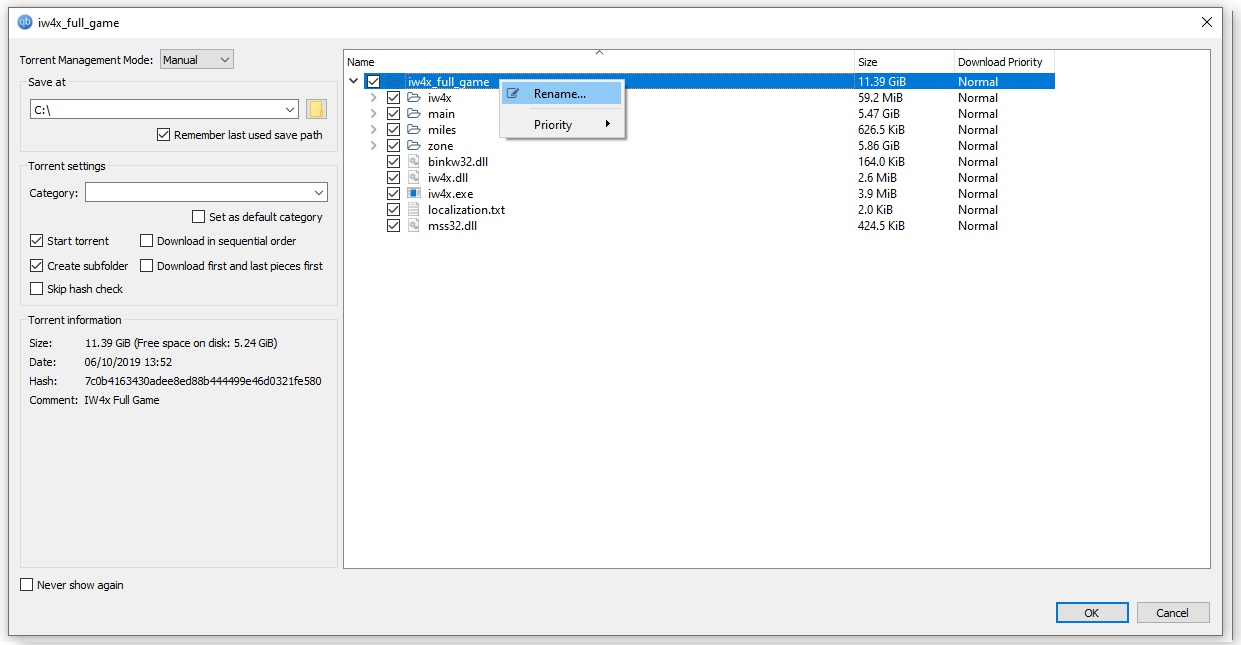
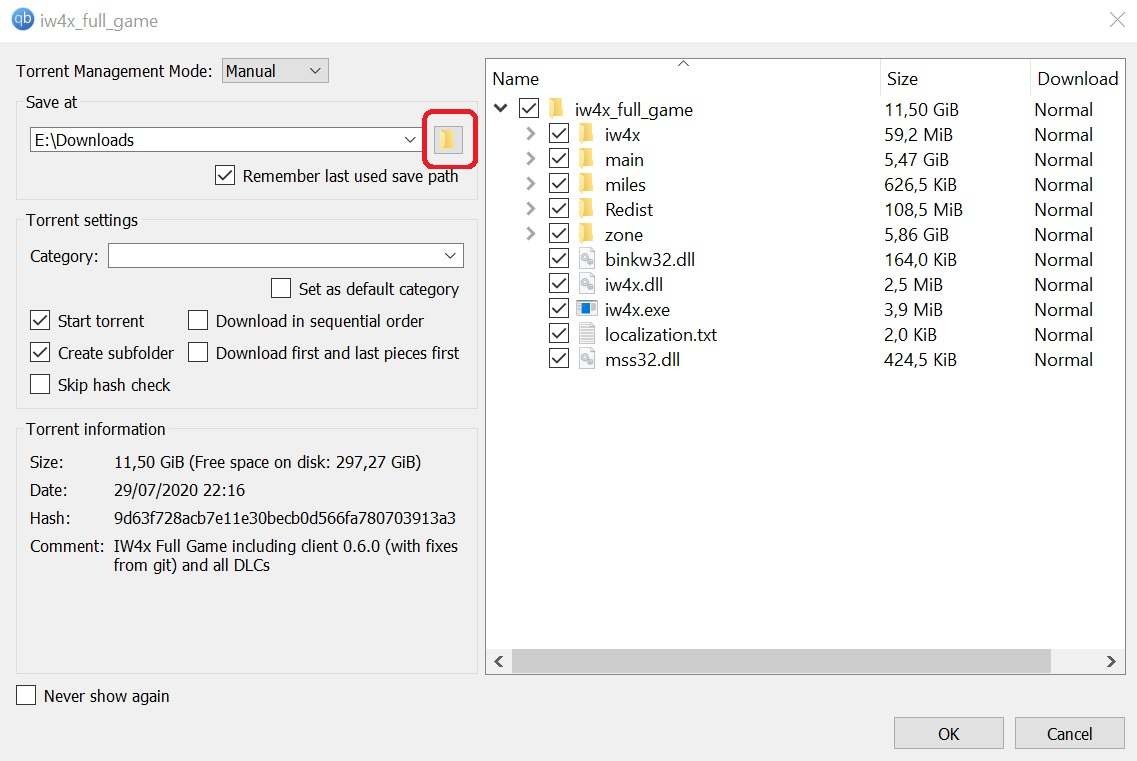
Simplified the Repair Guide and added a Guide on identifying Lag

Changed region(s): [[0.0, 0.0, 1.0, 1.0], [0.0, 0.8992, 0.1539, 0.9302]]

diff --git a/lagGuide.html b/lagGuide.html
@@ -10,10 +10,10 @@
 			gtag('js', new Date());
 			gtag('config', 'UA-154878289-1');
 		</script>
-		<title>IW4x Guides</title>
+		<title>Lag Guide</title>
 		<meta http-equiv="content-type" content="text/html; charset=utf-8" />
-		<meta name="description" content="All iw4x guides, all in one place."/>
-		<meta name="keywords" content="iw4x, iw4x guides, guides iw4x, MW2 guides, private match guide, controller guide, iw4x unlock all guide, iw4x console commands" />
+		<meta name="description" content="Find out what causes lag and what you can do to fight it."/>
+		<meta name="keywords" content="IW4x, lag, low fps, high ping, Mw2 iw4x, servers"/>
 		<meta name="theme-color" content="#317EFB"/>
 		<meta property="og:image" content="iw4xSplashAlt2.jpg">
 		<link rel="manifest" href="manifest.json">
@@ -62,32 +62,58 @@
 		<!-- Banner -->
 		<section id="bannerSkinny">
 			<div class="inner">
-				<h2 data-langkey="guides-Banner">Guides</h2>
+				<h2>Lag Guide</h2>
+				<p>Some players may experience lag but are unsure where it comes from and what they can do to fight it, this guide is going to cover the basic troubleshooting steps to enable a lag-free experience</p>
+				<a href="guides.html" class="button">Return to Guide list</a>
 			</div>
 		</section>
 
 		<!-- one -->
-		<section id="main" class="wrapper style1">
-			<header class="major">
-				<h2 data-langkey="guides-Contents">Contents:</h2>
-			</header>
-			<div class="container">
-				<ul>
-					<li><a data-langkey="guides-PrivateMatch" href="privateMatchGuide.html">Hosting a private match with friends</a></li>
-					<li><a data-langkey="guides-PublicServer" href="publicServerGuide.html">Hosting a public server</a></li>
-					<li><a href="OfflineServerGuide.html">Hosting a offline LAN server</a></li>
-					<li><a data-langkey="guides-UnlockAll" href="unlockAllGuide.html">How to unlock all / set a custom rank</a></li>
-					<li><a data-langkey="guides-Controller" href="controllerGuide.html">Using a controller on IW4x</a></li>
-					<li><a data-langkey="guides-Customise" href="customisationGuide.html">How to customise your game (Camos/Skins/Menus/Music)</a></li>
-					<li><a data-langkey="guides-Mods" href="modGuide.html">Installing / using mods</a></li>
-					<li><a data-langkey="guides-Binds" href="bindsGuide.html">Creating custom binds</a></li>
-					<li><a data-langkey="guides-ConsoleCommands" href="consoleCommandsGuide.html">Console commands</a></li>
-					<li><a href="installGuide.html">IW4x Install Guide</a></li>
-					<li><a href="repairGuide.html">Repair Guide</a></li>
-					<li><a href="lagGuide.html">Lag Guide</a></li>
-				</ul>
+		<section id="one" class="wrapper style1">
+			
+			<div class="container">				
+				<h3><u>Step 1</u> - Identifying Lag using the Lagometer:</h3>
+				<ol>
+					<li>Start iw4x and join any public server (this won't work in private match).</li>
+					<li>Open the console using the tilde key on your keyboard (the key below escape) and type in the following command (you can disable the Lagometer afterwards by using 0 instead of 1):</li>
+					<br>
+					<span class="image"><img src="images/lagGuideLagometer1.jpg" alt="Lagometer"></span>
+					<br><br>
+					<li>Play the game for a while and observe what the Lagometer shows.</li>
+					<br>
+					<span class="image"><img src="images/lagGuideLagometer2.jpg" alt="Lagometer"></span>
+					<br><br>
+					The Lagometer is divided into two parts, this is what they mean:
+					<br><br>
+					<u>Upper part:</u>
+					<br>
+					<font color="#0059FF">Blue</font>: Everything is fine, your pc is fast enough to deliver stable FPS.
+					<br>
+					<font color="#FFD500";>Yellow</font>: You are dropping frames, your pc is unable to keep up with the game.
+					<br><br>
+					<u>Lower part:</u>
+					<br>
+					<font color="#00FF08";>Green</font>: You are not experiencing packet loss, incoming packets arrive correctly, the height of the green bar also displays how high your ping is.
+					<br>
+					<font color="#FFD500";>Yellow</font>: You are experiencing packet loss, incoming packets are incomplete.
+					<br>
+					<font color="#FF0000";>Red</font>: You are dropping packets, this is worst case.
+					<br>	
+				</ol>				
+				<h3><u>Step 2a</u> - Fighting FPS Lag:</h3>
+				<ol>
+					<li>If you are using a laptop to play the game and that laptop has a dedicated gpu (graphics card, for example nvidia gt960m) make sure the game uses that instead of the graphics chip integrated into your cpu. Have a look at <a target="_blank" rel="noopener noreferrer" href="https://support.ubisoft.com/en-gb/faqs/000027100/Switching-to-the-laptop-s-dedicated-GPU/#:~:text=Switching%20to%20the%20dedicated%20Nvidia%20GPU&text=%2D%20Open%20the%20tab%20Program%20Settings,Finally%2C%20save%20your%20changes.">this guide</a> on how to to that.</li>
+					<li>If you do not have a dedicated gpu and are using integrated graphics have a look at <a target="_blank" rel="noopener noreferrer" href="https://appuals.com/how-to-increase-intel-graphics-dedicated-video-memory/">this Guide</a> on how to increase the amount of VRAM an integrated graphics chip can use.</li>
+					<li>Take note of your PC Specs, IW4x/MW2 is an old game but it won't run on anything, it's also known to use a bit more RAM and VRAM than the steam version of MW2. Make sure you have atleast 2GB of free RAM the game can use (not total RAM, free RAM, 2GB in total is not enough). Also make sure you have atleast 1GB of VRAM (video memory).</li>
+					<li>Close any programs you have running in the background that use alot of resources (if you only have a small amount of RAM a common example of a program that uses alot of RAM is Google Chrome).</li>
+				</ol>				
+                <h3><u>Step 2b</u> - Fighting Network Lag:</h3>
+				<ol>
+					<li>If the lagometer shows you are experiencing packet loss there isn't really anything you can modify on IW4x itself to fix that as it's an issue related to your internet connection. Go to <a target="_blank" rel="noopener noreferrer" href="https://packetlosstest.com/">this site</a> and select a game from the dropdown menu (for example Apex Legends) then click "Start Test". This will tell you if your connection is dropping packets.</li>
+					<li>Make sure you don't have downloads or other programs running in the background that cause alot of network traffic.</li>
+					<br>
+				</ol>
 			</div>
-
 		</section>
 			
 		<!-- CTA -->

diff --git a/repairGuide.html b/repairGuide.html
@@ -84,34 +84,28 @@
 				<br><br>
 				<ol start="2">
 					<li>Download the following torrent and open it with qBittorent or your torrent client of choice <a href="https://dss0.cc/alterwarez/download/iw4x_full_game.torrent">All-In-One Torrent</a>.</li>
-					<li>Once prompted with the following screen right click the folder <b>'iw4x_full_game'</b> and select <b>'rename'</b></li>
+					<li>Once prompted with the following screen click on the icon marked in red:</b></li>
 				</ol>
 				<span class="image"><img src="images/guideRepairTorrent.jpg" alt="Torrent Settings"></span>
 				<br><br>
 				<ol start="4">
-					<li>Rename the folder to the name of your MW2 folder that we made note of in <b>Step 1</b> (Our Example: <b>Call of Duty Modern Warfare 2</b>)</li>
-					<li>Now click the browse icon, a explorer window will open prompting us to select a folder</li>
+					<li>Browse to the location of your mw2 folder and mark it by clicking on it once. Now click "Select Folder":</li>
 				</ol>
 				<span class="image"><img src="images/guideRepairTorrent2.jpg" alt="Torrent Settings"></span>
 				<br><br>
-				<ol start="6">
-					<li>We need to browse to the parent folder of our MW2 install (1 folder back a level). In the example this is <b>D:\Games</b></li>
+				<ol start="5">
+					<li><b>IMPORTANT:</b> Untick "Create Subfolder", after that hit OK to start the repair process:</li>
 				</ol>
 				<span class="image"><img src="images/guideRepairTorrent3.jpg" alt="Torrent Settings"></span>
 				<br><br>
-				<p>As you can now see we have mimicked our existing MW2 folder structure, meaning that the torrent will download into the exact same location we already have MW2 installed at (Our Example <b>D:\Games\Call of Duty Modern Warfare 2</b>).
-				The torrent client will check this folder and discover any existing files, identify files which are broken or missing and redownload them. In effect reparing your game.</p>
-				<ol start="7">
-					<li>Select 'OK' to start the torrent</li>
+				<ol start="6">
+				    <li>The torrent client will now check your game files and re-download missing or corrupted ones:</li>
 				</ol>
 				<span class="image"><img src="images/guideRepairTorrent4.jpg" alt="Torrent Settings"></span>
-				<span class="image"><img src="images/guideRepairTorrent5.jpg" alt="Torrent Checking"></span>
-				<br>
-				<ol start="8">
-					<li>Once the torrent status changes to <b>Seeding</b> then the repair process is complete</li>
+				<br><br>
+				<ol start="7">
+					<li>Once the torrent status changes to <b>Seeding</b> the repair process is complete.</li>
 				</ol>
-				<span class="image"><img src="images/guideRepairTorrent6.jpg" alt="Torrent Seeding"></span>
-				<h4>Congratulations, your game is now repaired.</h4>
 				<br><br><br>
 
 			</div>
